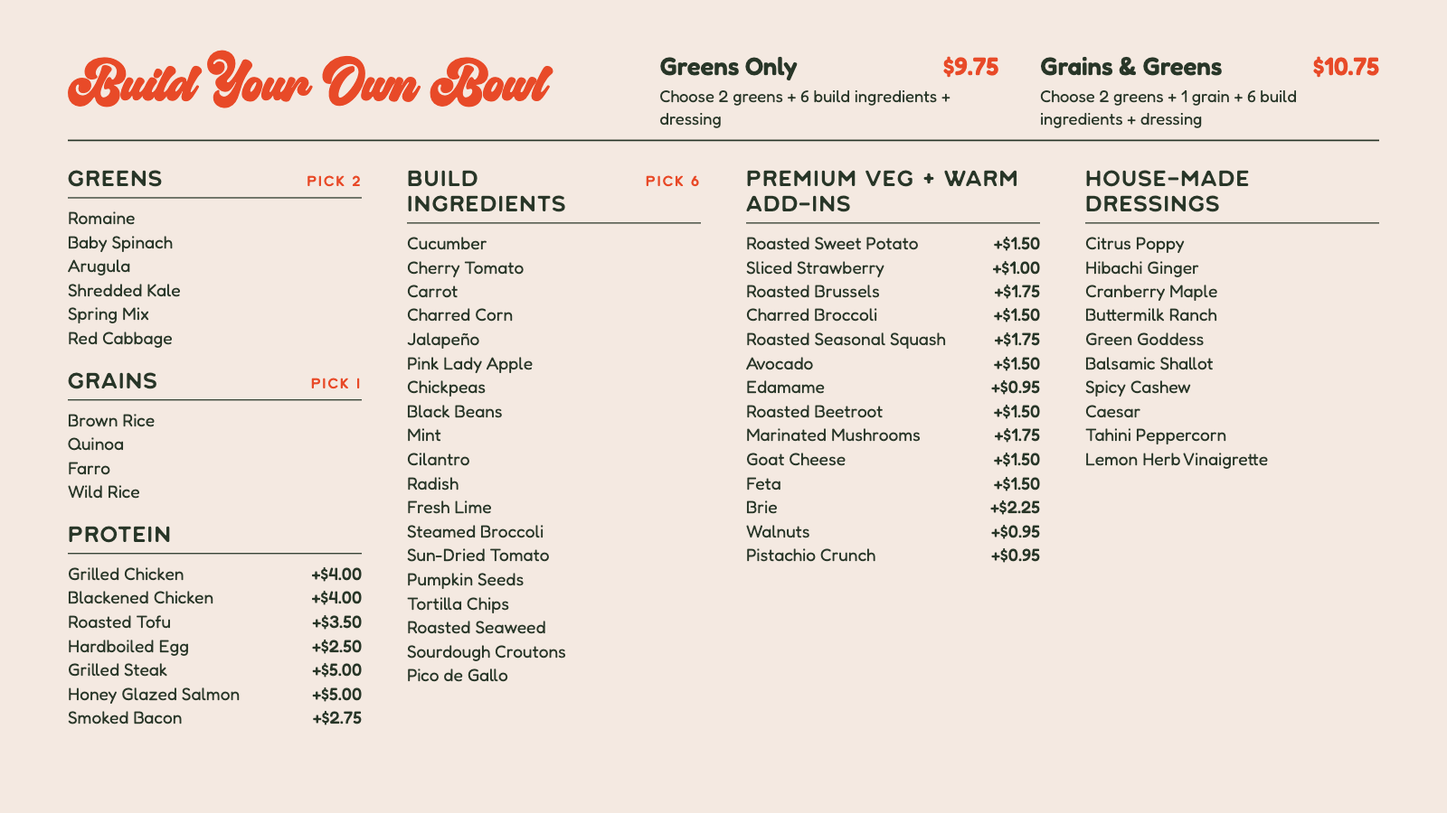
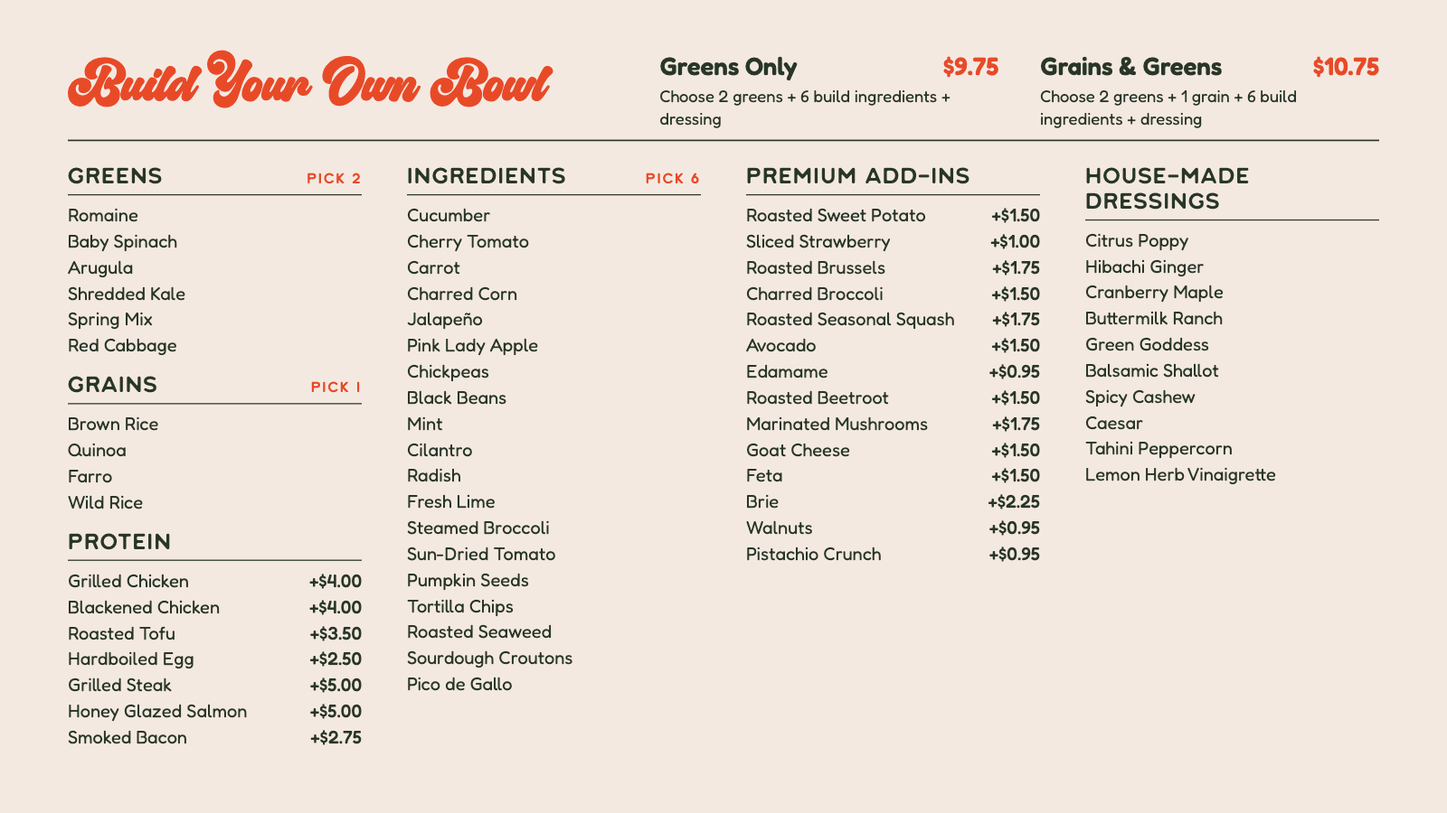
Build boards: 48px item lists, renamed section headings
Item names and add-on prices on all three build boards are now 48px with
more line spacing. "Build Ingredients" is now "Ingredients" and "Premium
Veg + Warm Add-ins" is now "Premium Add-ins". Synced from the canvas and
re-rendered the build stills.

diff --git a/design/Board2.dc.html b/design/Board2.dc.html
@@ -15,7 +15,7 @@
 body{margin:0;font-family:'Fredoka', sans-serif;background:#f4e9e1;color:#283628}
 </style>
 </helmet>
-<div style="width: 3840px; height: 2160px; box-sizing: border-box; padding: 140px 180px; background: #f4e9e1; color: #283628; font-family: 'Fredoka', sans-serif; display: flex; flex-direction: column; gap: 64px; overflow: hidden">
+<div style="width: 3840px; height: 2160px; box-sizing: border-box; padding: 140px 180px; background: #f4e9e1; color: #283628; font-family: 'Fredoka', sans-serif; display: flex; flex-direction: column; gap: 56px; overflow: hidden">
 <div style="display: flex; justify-content: space-between; align-items: flex-end; gap: 100px; padding-bottom: 28px; border-bottom: 4px solid #283628">
 <h2 style="margin: 0; align-self: flex-start; font-family: 'Midstar', 'Fredoka', cursive; font-size: 136px; font-weight: 400; line-height: 1; color: #e84a28">Build Your Own Bowl</h2>
 <div style="display: flex; gap: 110px">
@@ -30,13 +30,13 @@ body{margin:0;font-family:'Fredoka', sans-serif;background:#f4e9e1;color:#283628
 </div>
 </div>
 <div style="flex-grow: 1; min-height: 0; display: grid; grid-template-columns: repeat(4, minmax(0, 1fr)); column-gap: 120px; align-items: start">
-<div style="display: flex; flex-direction: column; gap: 48px; min-width: 0">
-<div style="display: flex; flex-direction: column; gap: 22px">
+<div style="display: flex; flex-direction: column; gap: 36px; min-width: 0">
+<div style="display: flex; flex-direction: column; gap: 18px">
 <div style="display: flex; justify-content: space-between; align-items: baseline; gap: 24px; padding-bottom: 18px; border-bottom: 3px solid #283628">
 <h3 style="margin: 0; font-family: 'Heart of the Land', 'Fredoka', sans-serif; font-size: 58px; font-weight: 400; letter-spacing: 0.06em; text-transform: uppercase; line-height: 1.15">Greens</h3>
 <span style="font-family: 'Heart of the Land', 'Fredoka', sans-serif; font-size: 38px; letter-spacing: 0.12em; text-transform: uppercase; white-space: nowrap; color: #e84a28">Pick 2</span>
 </div>
-<div style="display: flex; flex-direction: column; gap: 4px; font-size: 46px; font-weight: 400; line-height: 1.3">
+<div style="display: flex; flex-direction: column; gap: 2px; font-size: 48px; font-weight: 400; line-height: 1.4">
 <div>Romaine</div>
 <div>Baby Spinach</div>
 <div>Arugula</div>
@@ -45,23 +45,23 @@ body{margin:0;font-family:'Fredoka', sans-serif;background:#f4e9e1;color:#283628
 <div>Red Cabbage</div>
 </div>
 </div>
-<div style="display: flex; flex-direction: column; gap: 22px">
+<div style="display: flex; flex-direction: column; gap: 18px">
 <div style="display: flex; justify-content: space-between; align-items: baseline; gap: 24px; padding-bottom: 18px; border-bottom: 3px solid #283628">
 <h3 style="margin: 0; font-family: 'Heart of the Land', 'Fredoka', sans-serif; font-size: 58px; font-weight: 400; letter-spacing: 0.06em; text-transform: uppercase; line-height: 1.15">Grains</h3>
 <span style="font-family: 'Heart of the Land', 'Fredoka', sans-serif; font-size: 38px; letter-spacing: 0.12em; text-transform: uppercase; white-space: nowrap; color: #e84a28">Pick 1</span>
 </div>
-<div style="display: flex; flex-direction: column; gap: 4px; font-size: 46px; font-weight: 400; line-height: 1.3">
+<div style="display: flex; flex-direction: column; gap: 2px; font-size: 48px; font-weight: 400; line-height: 1.4">
 <div>Brown Rice</div>
 <div>Quinoa</div>
 <div>Farro</div>
 <div>Wild Rice</div>
 </div>
 </div>
-<div style="display: flex; flex-direction: column; gap: 22px">
+<div style="display: flex; flex-direction: column; gap: 18px">
 <div style="display: flex; justify-content: space-between; align-items: baseline; gap: 24px; padding-bottom: 18px; border-bottom: 3px solid #283628">
 <h3 style="margin: 0; font-family: 'Heart of the Land', 'Fredoka', sans-serif; font-size: 58px; font-weight: 400; letter-spacing: 0.06em; text-transform: uppercase; line-height: 1.15">Protein</h3>
 </div>
-<div style="display: flex; flex-direction: column; gap: 4px; font-size: 46px; font-weight: 400; line-height: 1.3">
+<div style="display: flex; flex-direction: column; gap: 2px; font-size: 48px; font-weight: 400; line-height: 1.4">
 <div style="display: flex; justify-content: space-between; gap: 24px"><span>Grilled Chicken</span><span style="white-space: nowrap; font-weight: 500">+$4.00</span></div>
 <div style="display: flex; justify-content: space-between; gap: 24px"><span>Blackened Chicken</span><span style="white-space: nowrap; font-weight: 500">+$4.00</span></div>
 <div style="display: flex; justify-content: space-between; gap: 24px"><span>Roasted Tofu</span><span style="white-space: nowrap; font-weight: 500">+$3.50</span></div>
@@ -72,13 +72,13 @@ body{margin:0;font-family:'Fredoka', sans-serif;background:#f4e9e1;color:#283628
 </div>
 </div>
 </div>
-<div style="display: flex; flex-direction: column; gap: 48px; min-width: 0">
-<div style="display: flex; flex-direction: column; gap: 22px">
+<div style="display: flex; flex-direction: column; gap: 36px; min-width: 0">
+<div style="display: flex; flex-direction: column; gap: 18px">
 <div style="display: flex; justify-content: space-between; align-items: baseline; gap: 24px; padding-bottom: 18px; border-bottom: 3px solid #283628">
-<h3 style="margin: 0; font-family: 'Heart of the Land', 'Fredoka', sans-serif; font-size: 58px; font-weight: 400; letter-spacing: 0.06em; text-transform: uppercase; line-height: 1.15">Build Ingredients</h3>
+<h3 style="margin: 0; font-family: 'Heart of the Land', 'Fredoka', sans-serif; font-size: 58px; font-weight: 400; letter-spacing: 0.06em; text-transform: uppercase; line-height: 1.15">Ingredients</h3>
 <span style="font-family: 'Heart of the Land', 'Fredoka', sans-serif; font-size: 38px; letter-spacing: 0.12em; text-transform: uppercase; white-space: nowrap; color: #e84a28">Pick 6</span>
 </div>
-<div style="display: flex; flex-direction: column; gap: 4px; font-size: 46px; font-weight: 400; line-height: 1.3">
+<div style="display: flex; flex-direction: column; gap: 2px; font-size: 48px; font-weight: 400; line-height: 1.4">
 <div>Cucumber</div>
 <div>Cherry Tomato</div>
 <div>Carrot</div>
@@ -101,12 +101,12 @@ body{margin:0;font-family:'Fredoka', sans-serif;background:#f4e9e1;color:#283628
 </div>
 </div>
 </div>
-<div style="display: flex; flex-direction: column; gap: 48px; min-width: 0">
-<div style="display: flex; flex-direction: column; gap: 22px">
+<div style="display: flex; flex-direction: column; gap: 36px; min-width: 0">
+<div style="display: flex; flex-direction: column; gap: 18px">
 <div style="display: flex; justify-content: space-between; align-items: baseline; gap: 24px; padding-bottom: 18px; border-bottom: 3px solid #283628">
-<h3 style="margin: 0; font-family: 'Heart of the Land', 'Fredoka', sans-serif; font-size: 58px; font-weight: 400; letter-spacing: 0.06em; text-transform: uppercase; line-height: 1.15">Premium Veg + Warm Add-ins</h3>
+<h3 style="margin: 0; font-family: 'Heart of the Land', 'Fredoka', sans-serif; font-size: 58px; font-weight: 400; letter-spacing: 0.06em; text-transform: uppercase; line-height: 1.15">Premium Add-ins</h3>
 </div>
-<div style="display: flex; flex-direction: column; gap: 4px; font-size: 46px; font-weight: 400; line-height: 1.3">
+<div style="display: flex; flex-direction: column; gap: 2px; font-size: 48px; font-weight: 400; line-height: 1.4">
 <div style="display: flex; justify-content: space-between; gap: 24px"><span>Roasted Sweet Potato</span><span style="white-space: nowrap; font-weight: 500">+$1.50</span></div>
 <div style="display: flex; justify-content: space-between; gap: 24px"><span>Sliced Strawberry</span><span style="white-space: nowrap; font-weight: 500">+$1.00</span></div>
 <div style="display: flex; justify-content: space-between; gap: 24px"><span>Roasted Brussels</span><span style="white-space: nowrap; font-weight: 500">+$1.75</span></div>
@@ -124,12 +124,12 @@ body{margin:0;font-family:'Fredoka', sans-serif;background:#f4e9e1;color:#283628
 </div>
 </div>
 </div>
-<div style="display: flex; flex-direction: column; gap: 48px; min-width: 0">
-<div style="display: flex; flex-direction: column; gap: 22px">
+<div style="display: flex; flex-direction: column; gap: 36px; min-width: 0">
+<div style="display: flex; flex-direction: column; gap: 18px">
 <div style="display: flex; justify-content: space-between; align-items: baseline; gap: 24px; padding-bottom: 18px; border-bottom: 3px solid #283628">
 <h3 style="margin: 0; font-family: 'Heart of the Land', 'Fredoka', sans-serif; font-size: 58px; font-weight: 400; letter-spacing: 0.06em; text-transform: uppercase; line-height: 1.15">House-made Dressings</h3>
 </div>
-<div style="display: flex; flex-direction: column; gap: 4px; font-size: 46px; font-weight: 400; line-height: 1.3">
+<div style="display: flex; flex-direction: column; gap: 2px; font-size: 48px; font-weight: 400; line-height: 1.4">
 <div>Citrus Poppy</div>
 <div>Hibachi Ginger</div>
 <div>Cranberry Maple</div>

diff --git a/design/OptionB-Board2.dc.html b/design/OptionB-Board2.dc.html
@@ -15,7 +15,7 @@
 body{margin:0;font-family:'Fredoka', sans-serif;background:#283628;color:#f4e9e1}
 </style>
 </helmet>
-<div style="width: 3840px; height: 2160px; box-sizing: border-box; padding: 140px 180px; background: #283628; color: #f4e9e1; font-family: 'Fredoka', sans-serif; display: flex; flex-direction: column; gap: 64px; overflow: hidden">
+<div style="width: 3840px; height: 2160px; box-sizing: border-box; padding: 140px 180px; background: #283628; color: #f4e9e1; font-family: 'Fredoka', sans-serif; display: flex; flex-direction: column; gap: 56px; overflow: hidden">
 <div style="display: flex; justify-content: space-between; align-items: flex-end; gap: 100px; padding-bottom: 28px; border-bottom: 4px solid #f9e14d">
 <h2 style="margin: 0; align-self: flex-start; font-family: 'Midstar', 'Fredoka', cursive; font-size: 136px; font-weight: 400; line-height: 1; color: #f9e14d">Build Your Own Bowl</h2>
 <div style="display: flex; gap: 110px">
@@ -30,13 +30,13 @@ body{margin:0;font-family:'Fredoka', sans-serif;background:#283628;color:#f4e9e1
 </div>
 </div>
 <div style="flex-grow: 1; min-height: 0; display: grid; grid-template-columns: repeat(4, minmax(0, 1fr)); column-gap: 120px; align-items: start">
-<div style="display: flex; flex-direction: column; gap: 48px; min-width: 0">
-<div style="display: flex; flex-direction: column; gap: 22px">
+<div style="display: flex; flex-direction: column; gap: 36px; min-width: 0">
+<div style="display: flex; flex-direction: column; gap: 18px">
 <div style="display: flex; justify-content: space-between; align-items: baseline; gap: 24px; padding-bottom: 18px; border-bottom: 3px solid #f9e14d">
 <h3 style="margin: 0; font-family: 'Heart of the Land', 'Fredoka', sans-serif; font-size: 58px; font-weight: 400; letter-spacing: 0.06em; text-transform: uppercase; line-height: 1.15">Greens</h3>
 <span style="font-family: 'Heart of the Land', 'Fredoka', sans-serif; font-size: 38px; letter-spacing: 0.12em; text-transform: uppercase; white-space: nowrap; color: #f9e14d">Pick 2</span>
 </div>
-<div style="display: flex; flex-direction: column; gap: 4px; font-size: 46px; font-weight: 400; line-height: 1.3">
+<div style="display: flex; flex-direction: column; gap: 2px; font-size: 48px; font-weight: 400; line-height: 1.4">
 <div>Romaine</div>
 <div>Baby Spinach</div>
 <div>Arugula</div>
@@ -45,23 +45,23 @@ body{margin:0;font-family:'Fredoka', sans-serif;background:#283628;color:#f4e9e1
 <div>Red Cabbage</div>
 </div>
 </div>
-<div style="display: flex; flex-direction: column; gap: 22px">
+<div style="display: flex; flex-direction: column; gap: 18px">
 <div style="display: flex; justify-content: space-between; align-items: baseline; gap: 24px; padding-bottom: 18px; border-bottom: 3px solid #f9e14d">
 <h3 style="margin: 0; font-family: 'Heart of the Land', 'Fredoka', sans-serif; font-size: 58px; font-weight: 400; letter-spacing: 0.06em; text-transform: uppercase; line-height: 1.15">Grains</h3>
 <span style="font-family: 'Heart of the Land', 'Fredoka', sans-serif; font-size: 38px; letter-spacing: 0.12em; text-transform: uppercase; white-space: nowrap; color: #f9e14d">Pick 1</span>
 </div>
-<div style="display: flex; flex-direction: column; gap: 4px; font-size: 46px; font-weight: 400; line-height: 1.3">
+<div style="display: flex; flex-direction: column; gap: 2px; font-size: 48px; font-weight: 400; line-height: 1.4">
 <div>Brown Rice</div>
 <div>Quinoa</div>
 <div>Farro</div>
 <div>Wild Rice</div>
 </div>
 </div>
-<div style="display: flex; flex-direction: column; gap: 22px">
+<div style="display: flex; flex-direction: column; gap: 18px">
 <div style="display: flex; justify-content: space-between; align-items: baseline; gap: 24px; padding-bottom: 18px; border-bottom: 3px solid #f9e14d">
 <h3 style="margin: 0; font-family: 'Heart of the Land', 'Fredoka', sans-serif; font-size: 58px; font-weight: 400; letter-spacing: 0.06em; text-transform: uppercase; line-height: 1.15">Protein</h3>
 </div>
-<div style="display: flex; flex-direction: column; gap: 4px; font-size: 46px; font-weight: 400; line-height: 1.3">
+<div style="display: flex; flex-direction: column; gap: 2px; font-size: 48px; font-weight: 400; line-height: 1.4">
 <div style="display: flex; justify-content: space-between; gap: 24px"><span>Grilled Chicken</span><span style="white-space: nowrap; font-weight: 500">+$4.00</span></div>
 <div style="display: flex; justify-content: space-between; gap: 24px"><span>Blackened Chicken</span><span style="white-space: nowrap; font-weight: 500">+$4.00</span></div>
 <div style="display: flex; justify-content: space-between; gap: 24px"><span>Roasted Tofu</span><span style="white-space: nowrap; font-weight: 500">+$3.50</span></div>
@@ -72,13 +72,13 @@ body{margin:0;font-family:'Fredoka', sans-serif;background:#283628;color:#f4e9e1
 </div>
 </div>
 </div>
-<div style="display: flex; flex-direction: column; gap: 48px; min-width: 0">
-<div style="display: flex; flex-direction: column; gap: 22px">
+<div style="display: flex; flex-direction: column; gap: 36px; min-width: 0">
+<div style="display: flex; flex-direction: column; gap: 18px">
 <div style="display: flex; justify-content: space-between; align-items: baseline; gap: 24px; padding-bottom: 18px; border-bottom: 3px solid #f9e14d">
-<h3 style="margin: 0; font-family: 'Heart of the Land', 'Fredoka', sans-serif; font-size: 58px; font-weight: 400; letter-spacing: 0.06em; text-transform: uppercase; line-height: 1.15">Build Ingredients</h3>
+<h3 style="margin: 0; font-family: 'Heart of the Land', 'Fredoka', sans-serif; font-size: 58px; font-weight: 400; letter-spacing: 0.06em; text-transform: uppercase; line-height: 1.15">Ingredients</h3>
 <span style="font-family: 'Heart of the Land', 'Fredoka', sans-serif; font-size: 38px; letter-spacing: 0.12em; text-transform: uppercase; white-space: nowrap; color: #f9e14d">Pick 6</span>
 </div>
-<div style="display: flex; flex-direction: column; gap: 4px; font-size: 46px; font-weight: 400; line-height: 1.3">
+<div style="display: flex; flex-direction: column; gap: 2px; font-size: 48px; font-weight: 400; line-height: 1.4">
 <div>Cucumber</div>
 <div>Cherry Tomato</div>
 <div>Carrot</div>
@@ -101,12 +101,12 @@ body{margin:0;font-family:'Fredoka', sans-serif;background:#283628;color:#f4e9e1
 </div>
 </div>
 </div>
-<div style="display: flex; flex-direction: column; gap: 48px; min-width: 0">
-<div style="display: flex; flex-direction: column; gap: 22px">
+<div style="display: flex; flex-direction: column; gap: 36px; min-width: 0">
+<div style="display: flex; flex-direction: column; gap: 18px">
 <div style="display: flex; justify-content: space-between; align-items: baseline; gap: 24px; padding-bottom: 18px; border-bottom: 3px solid #f9e14d">
-<h3 style="margin: 0; font-family: 'Heart of the Land', 'Fredoka', sans-serif; font-size: 58px; font-weight: 400; letter-spacing: 0.06em; text-transform: uppercase; line-height: 1.15">Premium Veg + Warm Add-ins</h3>
+<h3 style="margin: 0; font-family: 'Heart of the Land', 'Fredoka', sans-serif; font-size: 58px; font-weight: 400; letter-spacing: 0.06em; text-transform: uppercase; line-height: 1.15">Premium Add-ins</h3>
 </div>
-<div style="display: flex; flex-direction: column; gap: 4px; font-size: 46px; font-weight: 400; line-height: 1.3">
+<div style="display: flex; flex-direction: column; gap: 2px; font-size: 48px; font-weight: 400; line-height: 1.4">
 <div style="display: flex; justify-content: space-between; gap: 24px"><span>Roasted Sweet Potato</span><span style="white-space: nowrap; font-weight: 500">+$1.50</span></div>
 <div style="display: flex; justify-content: space-between; gap: 24px"><span>Sliced Strawberry</span><span style="white-space: nowrap; font-weight: 500">+$1.00</span></div>
 <div style="display: flex; justify-content: space-between; gap: 24px"><span>Roasted Brussels</span><span style="white-space: nowrap; font-weight: 500">+$1.75</span></div>
@@ -124,12 +124,12 @@ body{margin:0;font-family:'Fredoka', sans-serif;background:#283628;color:#f4e9e1
 </div>
 </div>
 </div>
-<div style="display: flex; flex-direction: column; gap: 48px; min-width: 0">
-<div style="display: flex; flex-direction: column; gap: 22px">
+<div style="display: flex; flex-direction: column; gap: 36px; min-width: 0">
+<div style="display: flex; flex-direction: column; gap: 18px">
 <div style="display: flex; justify-content: space-between; align-items: baseline; gap: 24px; padding-bottom: 18px; border-bottom: 3px solid #f9e14d">
 <h3 style="margin: 0; font-family: 'Heart of the Land', 'Fredoka', sans-serif; font-size: 58px; font-weight: 400; letter-spacing: 0.06em; text-transform: uppercase; line-height: 1.15">House-made Dressings</h3>
 </div>
-<div style="display: flex; flex-direction: column; gap: 4px; font-size: 46px; font-weight: 400; line-height: 1.3">
+<div style="display: flex; flex-direction: column; gap: 2px; font-size: 48px; font-weight: 400; line-height: 1.4">
 <div>Citrus Poppy</div>
 <div>Hibachi Ginger</div>
 <div>Cranberry Maple</div>

diff --git a/design/OptionC-Board2.dc.html b/design/OptionC-Board2.dc.html
@@ -15,7 +15,7 @@
 body{margin:0;font-family:'Fredoka', sans-serif;background:#f9e14d;color:#283628}
 </style>
 </helmet>
-<div style="width: 3840px; height: 2160px; box-sizing: border-box; padding: 140px 180px; background: #f9e14d; color: #283628; font-family: 'Fredoka', sans-serif; display: flex; flex-direction: column; gap: 64px; overflow: hidden">
+<div style="width: 3840px; height: 2160px; box-sizing: border-box; padding: 140px 180px; background: #f9e14d; color: #283628; font-family: 'Fredoka', sans-serif; display: flex; flex-direction: column; gap: 56px; overflow: hidden">
 <div style="display: flex; justify-content: space-between; align-items: flex-end; gap: 100px; padding-bottom: 28px; border-bottom: 4px solid #283628">
 <h2 style="margin: 0; align-self: flex-start; font-family: 'Midstar', 'Fredoka', cursive; font-size: 136px; font-weight: 400; line-height: 1; color: #5f2637">Build Your Own Bowl</h2>
 <div style="display: flex; gap: 110px">
@@ -30,13 +30,13 @@ body{margin:0;font-family:'Fredoka', sans-serif;background:#f9e14d;color:#283628
 </div>
 </div>
 <div style="flex-grow: 1; min-height: 0; display: grid; grid-template-columns: repeat(4, minmax(0, 1fr)); column-gap: 120px; align-items: start">
-<div style="display: flex; flex-direction: column; gap: 48px; min-width: 0">
-<div style="display: flex; flex-direction: column; gap: 22px">
+<div style="display: flex; flex-direction: column; gap: 36px; min-width: 0">
+<div style="display: flex; flex-direction: column; gap: 18px">
 <div style="display: flex; justify-content: space-between; align-items: baseline; gap: 24px; padding-bottom: 18px; border-bottom: 3px solid #283628">
 <h3 style="margin: 0; font-family: 'Heart of the Land', 'Fredoka', sans-serif; font-size: 58px; font-weight: 400; letter-spacing: 0.06em; text-transform: uppercase; line-height: 1.15">Greens</h3>
 <span style="font-family: 'Heart of the Land', 'Fredoka', sans-serif; font-size: 38px; letter-spacing: 0.12em; text-transform: uppercase; white-space: nowrap; color: #5f2637">Pick 2</span>
 </div>
-<div style="display: flex; flex-direction: column; gap: 4px; font-size: 46px; font-weight: 400; line-height: 1.3">
+<div style="display: flex; flex-direction: column; gap: 2px; font-size: 48px; font-weight: 400; line-height: 1.4">
 <div>Romaine</div>
 <div>Baby Spinach</div>
 <div>Arugula</div>
@@ -45,23 +45,23 @@ body{margin:0;font-family:'Fredoka', sans-serif;background:#f9e14d;color:#283628
 <div>Red Cabbage</div>
 </div>
 </div>
-<div style="display: flex; flex-direction: column; gap: 22px">
+<div style="display: flex; flex-direction: column; gap: 18px">
 <div style="display: flex; justify-content: space-between; align-items: baseline; gap: 24px; padding-bottom: 18px; border-bottom: 3px solid #283628">
 <h3 style="margin: 0; font-family: 'Heart of the Land', 'Fredoka', sans-serif; font-size: 58px; font-weight: 400; letter-spacing: 0.06em; text-transform: uppercase; line-height: 1.15">Grains</h3>
 <span style="font-family: 'Heart of the Land', 'Fredoka', sans-serif; font-size: 38px; letter-spacing: 0.12em; text-transform: uppercase; white-space: nowrap; color: #5f2637">Pick 1</span>
 </div>
-<div style="display: flex; flex-direction: column; gap: 4px; font-size: 46px; font-weight: 400; line-height: 1.3">
+<div style="display: flex; flex-direction: column; gap: 2px; font-size: 48px; font-weight: 400; line-height: 1.4">
 <div>Brown Rice</div>
 <div>Quinoa</div>
 <div>Farro</div>
 <div>Wild Rice</div>
 </div>
 </div>
-<div style="display: flex; flex-direction: column; gap: 22px">
+<div style="display: flex; flex-direction: column; gap: 18px">
 <div style="display: flex; justify-content: space-between; align-items: baseline; gap: 24px; padding-bottom: 18px; border-bottom: 3px solid #283628">
 <h3 style="margin: 0; font-family: 'Heart of the Land', 'Fredoka', sans-serif; font-size: 58px; font-weight: 400; letter-spacing: 0.06em; text-transform: uppercase; line-height: 1.15">Protein</h3>
 </div>
-<div style="display: flex; flex-direction: column; gap: 4px; font-size: 46px; font-weight: 400; line-height: 1.3">
+<div style="display: flex; flex-direction: column; gap: 2px; font-size: 48px; font-weight: 400; line-height: 1.4">
 <div style="display: flex; justify-content: space-between; gap: 24px"><span>Grilled Chicken</span><span style="white-space: nowrap; font-weight: 500">+$4.00</span></div>
 <div style="display: flex; justify-content: space-between; gap: 24px"><span>Blackened Chicken</span><span style="white-space: nowrap; font-weight: 500">+$4.00</span></div>
 <div style="display: flex; justify-content: space-between; gap: 24px"><span>Roasted Tofu</span><span style="white-space: nowrap; font-weight: 500">+$3.50</span></div>
@@ -72,13 +72,13 @@ body{margin:0;font-family:'Fredoka', sans-serif;background:#f9e14d;color:#283628
 </div>
 </div>
 </div>
-<div style="display: flex; flex-direction: column; gap: 48px; min-width: 0">
-<div style="display: flex; flex-direction: column; gap: 22px">
+<div style="display: flex; flex-direction: column; gap: 36px; min-width: 0">
+<div style="display: flex; flex-direction: column; gap: 18px">
 <div style="display: flex; justify-content: space-between; align-items: baseline; gap: 24px; padding-bottom: 18px; border-bottom: 3px solid #283628">
-<h3 style="margin: 0; font-family: 'Heart of the Land', 'Fredoka', sans-serif; font-size: 58px; font-weight: 400; letter-spacing: 0.06em; text-transform: uppercase; line-height: 1.15">Build Ingredients</h3>
+<h3 style="margin: 0; font-family: 'Heart of the Land', 'Fredoka', sans-serif; font-size: 58px; font-weight: 400; letter-spacing: 0.06em; text-transform: uppercase; line-height: 1.15">Ingredients</h3>
 <span style="font-family: 'Heart of the Land', 'Fredoka', sans-serif; font-size: 38px; letter-spacing: 0.12em; text-transform: uppercase; white-space: nowrap; color: #5f2637">Pick 6</span>
 </div>
-<div style="display: flex; flex-direction: column; gap: 4px; font-size: 46px; font-weight: 400; line-height: 1.3">
+<div style="display: flex; flex-direction: column; gap: 2px; font-size: 48px; font-weight: 400; line-height: 1.4">
 <div>Cucumber</div>
 <div>Cherry Tomato</div>
 <div>Carrot</div>
@@ -101,12 +101,12 @@ body{margin:0;font-family:'Fredoka', sans-serif;background:#f9e14d;color:#283628
 </div>
 </div>
 </div>
-<div style="display: flex; flex-direction: column; gap: 48px; min-width: 0">
-<div style="display: flex; flex-direction: column; gap: 22px">
+<div style="display: flex; flex-direction: column; gap: 36px; min-width: 0">
+<div style="display: flex; flex-direction: column; gap: 18px">
 <div style="display: flex; justify-content: space-between; align-items: baseline; gap: 24px; padding-bottom: 18px; border-bottom: 3px solid #283628">
-<h3 style="margin: 0; font-family: 'Heart of the Land', 'Fredoka', sans-serif; font-size: 58px; font-weight: 400; letter-spacing: 0.06em; text-transform: uppercase; line-height: 1.15">Premium Veg + Warm Add-ins</h3>
+<h3 style="margin: 0; font-family: 'Heart of the Land', 'Fredoka', sans-serif; font-size: 58px; font-weight: 400; letter-spacing: 0.06em; text-transform: uppercase; line-height: 1.15">Premium Add-ins</h3>
 </div>
-<div style="display: flex; flex-direction: column; gap: 4px; font-size: 46px; font-weight: 400; line-height: 1.3">
+<div style="display: flex; flex-direction: column; gap: 2px; font-size: 48px; font-weight: 400; line-height: 1.4">
 <div style="display: flex; justify-content: space-between; gap: 24px"><span>Roasted Sweet Potato</span><span style="white-space: nowrap; font-weight: 500">+$1.50</span></div>
 <div style="display: flex; justify-content: space-between; gap: 24px"><span>Sliced Strawberry</span><span style="white-space: nowrap; font-weight: 500">+$1.00</span></div>
 <div style="display: flex; justify-content: space-between; gap: 24px"><span>Roasted Brussels</span><span style="white-space: nowrap; font-weight: 500">+$1.75</span></div>
@@ -124,12 +124,12 @@ body{margin:0;font-family:'Fredoka', sans-serif;background:#f9e14d;color:#283628
 </div>
 </div>
 </div>
-<div style="display: flex; flex-direction: column; gap: 48px; min-width: 0">
-<div style="display: flex; flex-direction: column; gap: 22px">
+<div style="display: flex; flex-direction: column; gap: 36px; min-width: 0">
+<div style="display: flex; flex-direction: column; gap: 18px">
 <div style="display: flex; justify-content: space-between; align-items: baseline; gap: 24px; padding-bottom: 18px; border-bottom: 3px solid #283628">
 <h3 style="margin: 0; font-family: 'Heart of the Land', 'Fredoka', sans-serif; font-size: 58px; font-weight: 400; letter-spacing: 0.06em; text-transform: uppercase; line-height: 1.15">House-made Dressings</h3>
 </div>
-<div style="display: flex; flex-direction: column; gap: 4px; font-size: 46px; font-weight: 400; line-height: 1.3">
+<div style="display: flex; flex-direction: column; gap: 2px; font-size: 48px; font-weight: 400; line-height: 1.4">
 <div>Citrus Poppy</div>
 <div>Hibachi Ginger</div>
 <div>Cranberry Maple</div>
